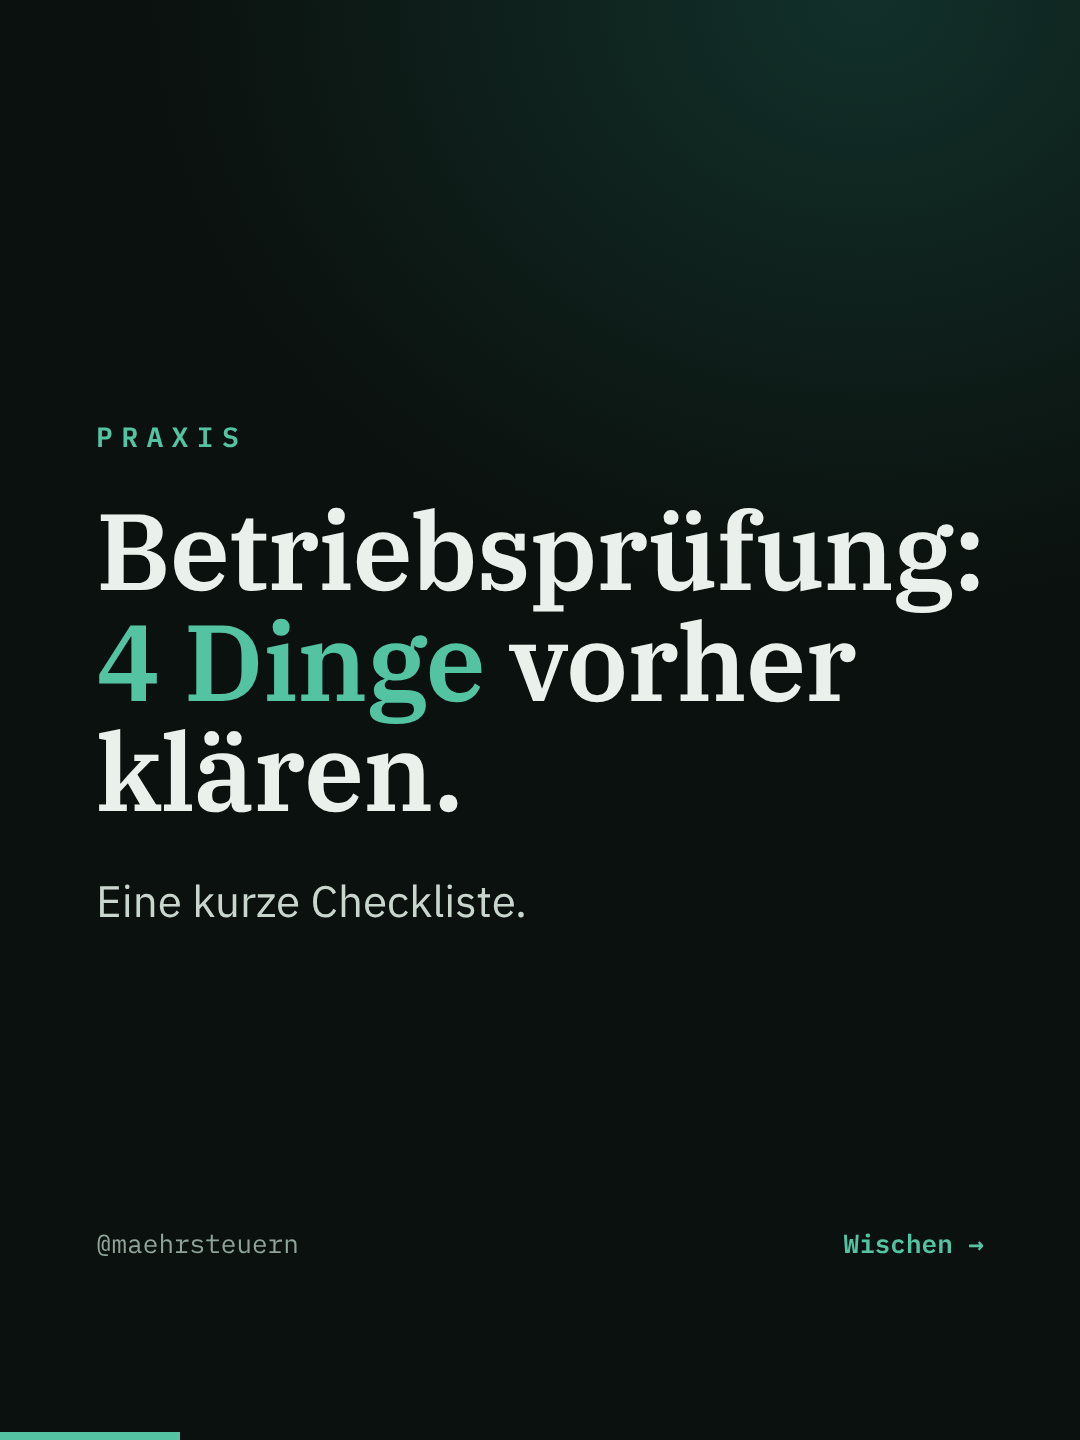
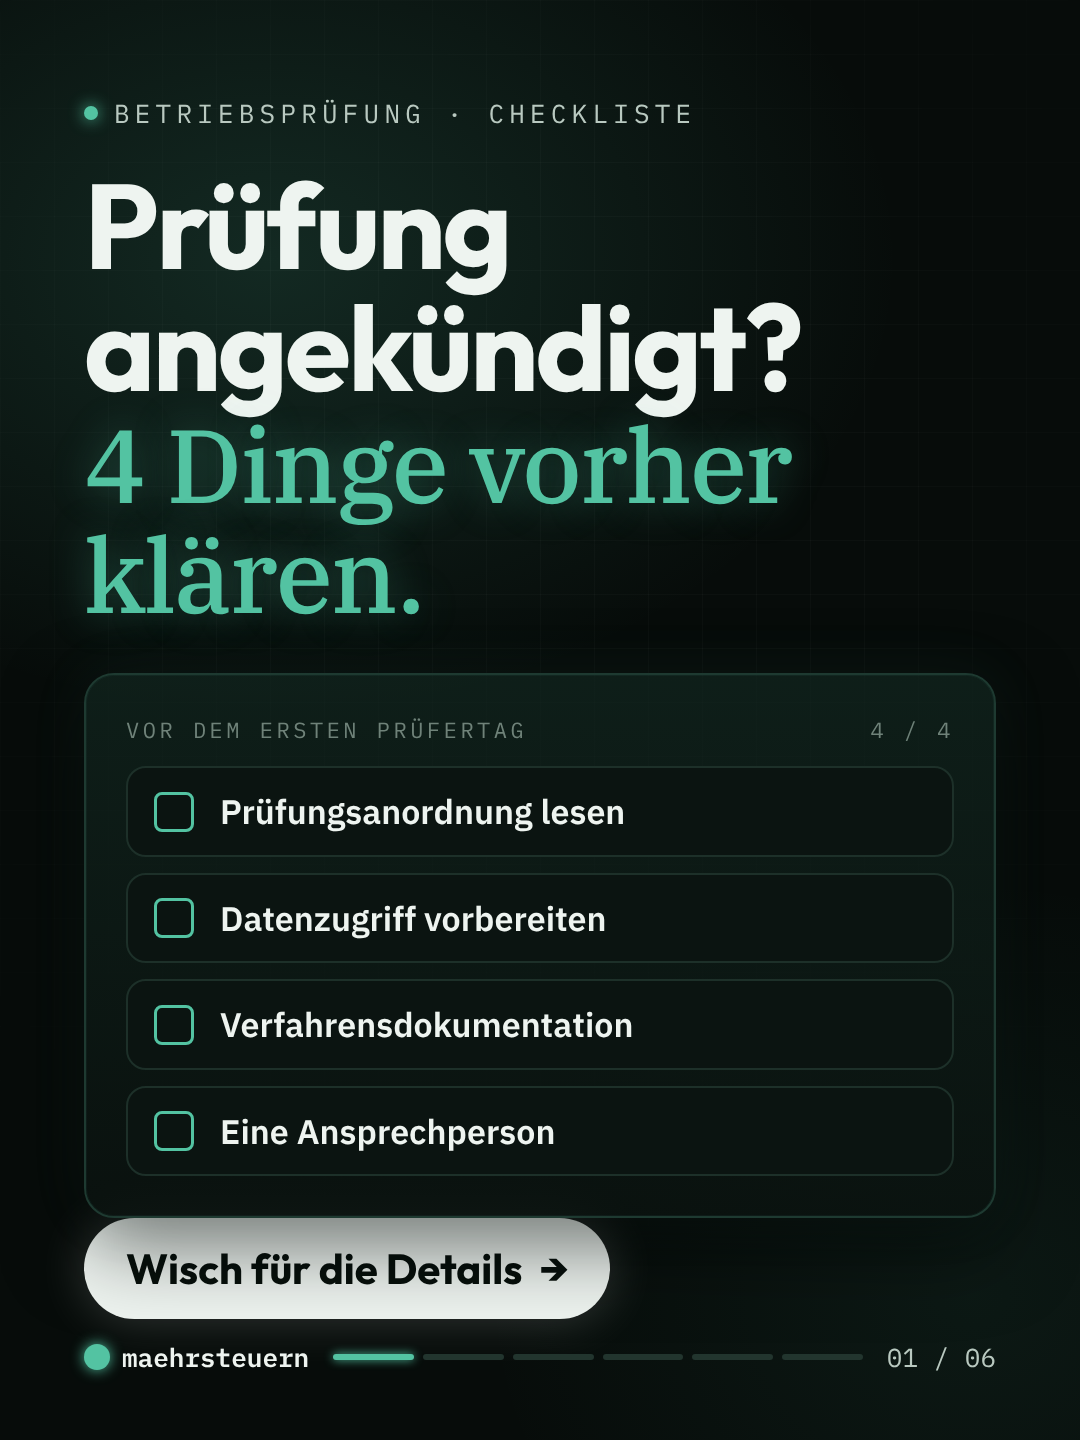
Premium-Karussell: Vorlage + Renderer (vorlagen/system/premium/karussell.*), erstes Karussell 37 Betriebsprüfung umgebaut
Claude-Session: https://claude.ai/code/session_01WLchWH489CHnycZgWbCzyP

diff --git a/vorlagen/system/premium/karussell.html b/vorlagen/system/premium/karussell.html
@@ -1,0 +1,85 @@
+<!doctype html>
+<html lang="de"><head><meta charset="utf-8">
+<!-- Premium-Karussell (Wissen 25.10., Look wie die Premium-Reels): eine Folie 1080×1440, gezeichnet von zeichne(folie, nr, gesamt).
+     Gerendert von premium/karussell.mjs aus einer Job-Datei premium/karussells/<name>.json. -->
+<link rel="stylesheet" href="../../schriften.css">
+<style>
+@font-face{font-family:"Outfit";src:url(../schriften/Outfit-Bold.ttf);font-weight:700}
+:root{--bg:#070C0A;--rand:#1E3A31;--gruen:#53C3A2;--gruen2:#7FE0C2;--text:#EEF4F0;--text2:#B9C9C0;--grau:#6F8279;--rot:#E07A6B;
+  --serif:"IBM Plex Serif",serif;--sans:"IBM Plex Sans",sans-serif;--mono:"IBM Plex Mono",monospace}
+*{box-sizing:border-box;margin:0}
+html,body{width:1080px;height:1440px;overflow:hidden;background:var(--bg);color:var(--text);font-family:var(--sans)}
+#bg{position:absolute;inset:0;background:radial-gradient(900px 650px at 25% 18%,rgba(83,195,162,.16),transparent 70%),radial-gradient(700px 600px at 90% 90%,rgba(83,195,162,.07),transparent 70%),var(--bg)}
+#raster{position:absolute;inset:0;background-image:linear-gradient(rgba(255,255,255,.025) 1px,transparent 1px),linear-gradient(90deg,rgba(255,255,255,.025) 1px,transparent 1px);background-size:54px 54px;mask-image:radial-gradient(circle at 50% 35%,#000 30%,transparent 80%)}
+#f{position:absolute;left:84px;right:84px;top:96px;bottom:175px;display:flex;flex-direction:column}
+.kicker{font-family:var(--mono);font-size:26px;letter-spacing:.2em;color:var(--text2);display:flex;align-items:center;gap:16px;text-transform:uppercase}
+.kicker i{width:14px;height:14px;border-radius:50%;background:var(--gruen);box-shadow:0 0 16px var(--gruen)}
+.kicker .chip{margin-left:6px}
+h1{font-family:"Outfit";font-weight:700;font-size:96px;line-height:1.02;letter-spacing:-.025em;margin-top:34px}
+h2{font-family:var(--serif);font-weight:500;font-size:84px;line-height:1.06;letter-spacing:-.02em;color:var(--gruen);text-shadow:0 0 40px rgba(83,195,162,.35)}
+h1 b{color:var(--gruen2);font-weight:700}
+h2.rot{color:var(--rot);text-shadow:0 0 40px rgba(224,122,107,.3)}
+.titel h1{font-size:120px}.titel h2{font-size:104px}
+.sub{font-size:36px;color:var(--text2);margin-top:28px;line-height:1.35}.sub b{color:var(--text);font-weight:700}
+.panel{margin-top:44px;border:2px solid var(--rand);border-radius:30px;background:linear-gradient(180deg,rgba(18,40,33,.65),rgba(10,18,15,.85));
+  box-shadow:0 0 0 1px rgba(83,195,162,.06) inset,0 30px 80px rgba(0,0,0,.5),0 0 60px rgba(83,195,162,.08);padding:40px;position:relative}
+.panel .kopf{font-family:var(--mono);font-size:22px;letter-spacing:.16em;color:var(--grau);display:flex;justify-content:space-between;margin-bottom:22px;text-transform:uppercase}
+.chip{display:inline-block;font-family:var(--mono);font-size:22px;letter-spacing:.14em;padding:7px 16px;border-radius:10px;background:rgba(83,195,162,.18);color:var(--gruen2);font-weight:600;text-transform:uppercase}
+.chip.rot{background:rgba(224,122,107,.18);color:var(--rot)}
+.zeile{display:flex;align-items:center;gap:26px;padding:22px 26px;border:2px solid #1d3029;border-radius:20px;background:#0B1411;margin-top:16px;font-size:34px;font-weight:600;line-height:1.25}
+.zeile:first-child{margin-top:0}
+.zeile .n{flex:none;width:54px;height:54px;border-radius:50%;background:var(--gruen);color:#07100c;font-family:Outfit;font-size:30px;display:flex;align-items:center;justify-content:center;box-shadow:0 0 22px rgba(83,195,162,.5)}
+.zeile .box{flex:none;width:40px;height:40px;border-radius:8px;border:3px solid var(--gruen)}
+.zeile small{display:block;font-size:26px;font-weight:400;color:var(--text2);margin-top:6px}
+.gross{font-family:Outfit;font-size:200px;line-height:1;letter-spacing:-.03em;color:var(--gruen2);text-shadow:0 0 60px rgba(83,195,162,.55)}
+.gross.rot{color:var(--rot);text-shadow:0 0 60px rgba(224,122,107,.45)}
+.vgl{display:flex;gap:22px}.vgl>div{flex:1;border:2px solid #22352E;border-radius:24px;background:#0B1411;padding:32px}
+.vgl .gut{border-color:var(--gruen);background:rgba(83,195,162,.10);box-shadow:0 0 40px rgba(83,195,162,.25)}
+.vgl .schlecht{border-color:rgba(224,122,107,.6)}
+.vgl .t{font-family:var(--mono);font-size:24px;letter-spacing:.14em;color:var(--grau);text-transform:uppercase}
+.vgl .w{font-family:Outfit;font-size:64px;margin-top:14px;line-height:1.05}.vgl .gut .w{color:var(--gruen2)}.vgl .schlecht .w{color:var(--rot)}
+.vgl .x{font-size:28px;color:var(--text2);margin-top:12px;line-height:1.35}
+table{width:100%;border-collapse:collapse;font-size:30px}td,th{padding:16px 12px;border-bottom:1px solid #1d3029;text-align:left}
+th{font-family:var(--mono);font-size:22px;letter-spacing:.12em;color:var(--grau);font-weight:500;text-transform:uppercase}
+td.a{color:var(--gruen2);font-weight:600}
+.norm{margin-top:auto;display:flex;gap:22px;align-items:flex-start;border:2px solid var(--rand);border-radius:22px;padding:26px 30px;background:rgba(10,18,15,.7)}
+.norm .t{font-family:var(--mono);font-size:24px;line-height:1.5;color:var(--text2)}
+.text{font-size:34px;line-height:1.45;color:var(--text2)}.text b{color:var(--text)}
+.wisch{margin-top:auto;align-self:flex-start;display:inline-flex;align-items:center;gap:18px;background:var(--text);color:#07100c;font-family:Outfit;font-size:42px;padding:24px 42px;border-radius:999px;box-shadow:0 0 50px rgba(238,244,240,.2)}
+.tool{display:inline-block;font-family:Outfit;font-size:170px;line-height:1;padding:20px 50px 30px;border-radius:36px;border:4px solid var(--gruen);background:rgba(83,195,162,.14);color:var(--gruen2);text-shadow:0 0 60px rgba(83,195,162,.7);box-shadow:0 0 80px rgba(83,195,162,.35);margin-top:30px}
+#fuss{position:absolute;left:84px;right:84px;bottom:66px;display:flex;align-items:center;gap:24px;font-family:var(--mono);font-size:26px;color:var(--text2)}
+#fuss .h{display:flex;align-items:center;gap:12px;color:var(--text);font-weight:600}#fuss .h i{width:26px;height:26px;border-radius:50%;background:var(--gruen);box-shadow:0 0 14px var(--gruen)}
+#seg{flex:1;display:flex;gap:9px}#seg div{flex:1;height:6px;border-radius:3px;background:#22352E}#seg div.on{background:var(--gruen);box-shadow:0 0 10px var(--gruen)}
+</style></head><body>
+<div id="bg"></div><div id="raster"></div><div id="f"></div>
+<div id="fuss"><span class="h"><i></i>maehrsteuern</span><div id="seg"></div><span id="nr"></span></div>
+<script>
+// *Wort* = Akzent (grün) in Texten
+const md=s=>(s||"").replace(/\*([^*]+)\*/g,"<b>$1</b>").replace(/\n/g,"<br>");
+const PANEL={
+  liste:p=>(p.kopf?`<div class="kopf"><span>${p.kopf}</span><span>${p.kopf2||""}</span></div>`:"")+p.punkte.map((x,i)=>{const[t,k]=[].concat(x);return`<div class="zeile"><span class="n">${i+1}</span><span>${md(t)}${k?`<small>${md(k)}</small>`:""}</span></div>`}).join(""),
+  check:p=>`<div class="kopf"><span>${p.kopf||"Vorher prüfen"}</span><span>${p.kopf2||""}</span></div>`+p.punkte.map(x=>{const[t,k]=[].concat(x);return`<div class="zeile"><span class="box"></span><span>${md(t)}${k?`<small>${md(k)}</small>`:""}</span></div>`}).join(""),
+  zahl:p=>`<div class="kopf"><span>${p.kopf||""}</span><span>${p.kopf2||""}</span></div><div class="gross ${p.rot?"rot":""}">${p.gross}</div><div class="text" style="margin-top:22px">${md(p.text)}</div>`,
+  vergleich:p=>(p.kopf?`<div class="kopf"><span>${p.kopf}</span><span>${p.kopf2||""}</span></div>`:"")+`<div class="vgl">`+[p.links,p.rechts].map(s=>`<div class="${s.art||""}"><div class="t">${s.titel}</div><div class="w">${s.wert}</div><div class="x">${md(s.text)}</div></div>`).join("")+`</div>`,
+  tabelle:p=>`<div class="kopf"><span>${p.kopf||""}</span><span>${p.kopf2||""}</span></div><table><tr>${p.spalten.map(s=>`<th>${s}</th>`).join("")}</tr>`+p.zeilen.map(z=>`<tr>${z.map((c,i)=>`<td class="${i===z.length-1?"a":""}">${md(c)}</td>`).join("")}</tr>`).join("")+`</table>`,
+  text:p=>`<div class="text">${md(p.text)}</div>`
+};
+window.zeichne=(f,nr,ges)=>{
+  const typ=f.typ||(nr===1?"titel":nr===ges?"cta":"inhalt");
+  let h=`<div class="kicker"><i></i>${f.kicker||""}${f.chip?`<span class="chip ${f.chipRot?"rot":""}">${f.chip}</span>`:""}</div>`;
+  if(typ==="cta"){
+    h+=`<h1>${f.h1||"Kommentiere"}</h1><div><span class="tool">${f.wort||"TOOL"}</span></div><div class="sub" style="margin-top:40px">${md(f.sub||"Ich schick dir die Demo per DM – *mit Beispieldaten.*")}</div>`;
+    if(f.extra)h+=`<div class="panel"><div class="text">${md(f.extra)}</div></div>`;
+  }else{
+    h+=`<h1>${md(f.h1)}</h1>`+(f.h2?`<h2 class="${f.h2rot?"rot":""}">${md(f.h2)}</h2>`:"")+(f.sub?`<div class="sub">${md(f.sub)}</div>`:"");
+    if(f.panel)h+=`<div class="panel">${PANEL[f.panel.typ](f.panel)}</div>`;
+    if(f.norm)h+=`<div class="norm"><span class="chip">Norm</span><span class="t">${md(f.norm)}</span></div>`;
+    else if(typ==="titel")h+=`<div class="wisch">${f.wisch||"Wisch für die Lösung"} <span>→</span></div>`;
+  }
+  const el=document.getElementById("f");el.className=typ;el.innerHTML=h;
+  document.getElementById("seg").innerHTML=Array.from({length:ges},(_,i)=>`<div class="${i<nr?"on":""}"></div>`).join("");
+  document.getElementById("nr").textContent=String(nr).padStart(2,"0")+" / "+String(ges).padStart(2,"0");
+  // zu hohe Folie melden (Text ragt in den Fuß)
+  return el.scrollHeight>el.clientHeight+2?"ZU_HOCH":"ok";
+};
+</script></body></html>
